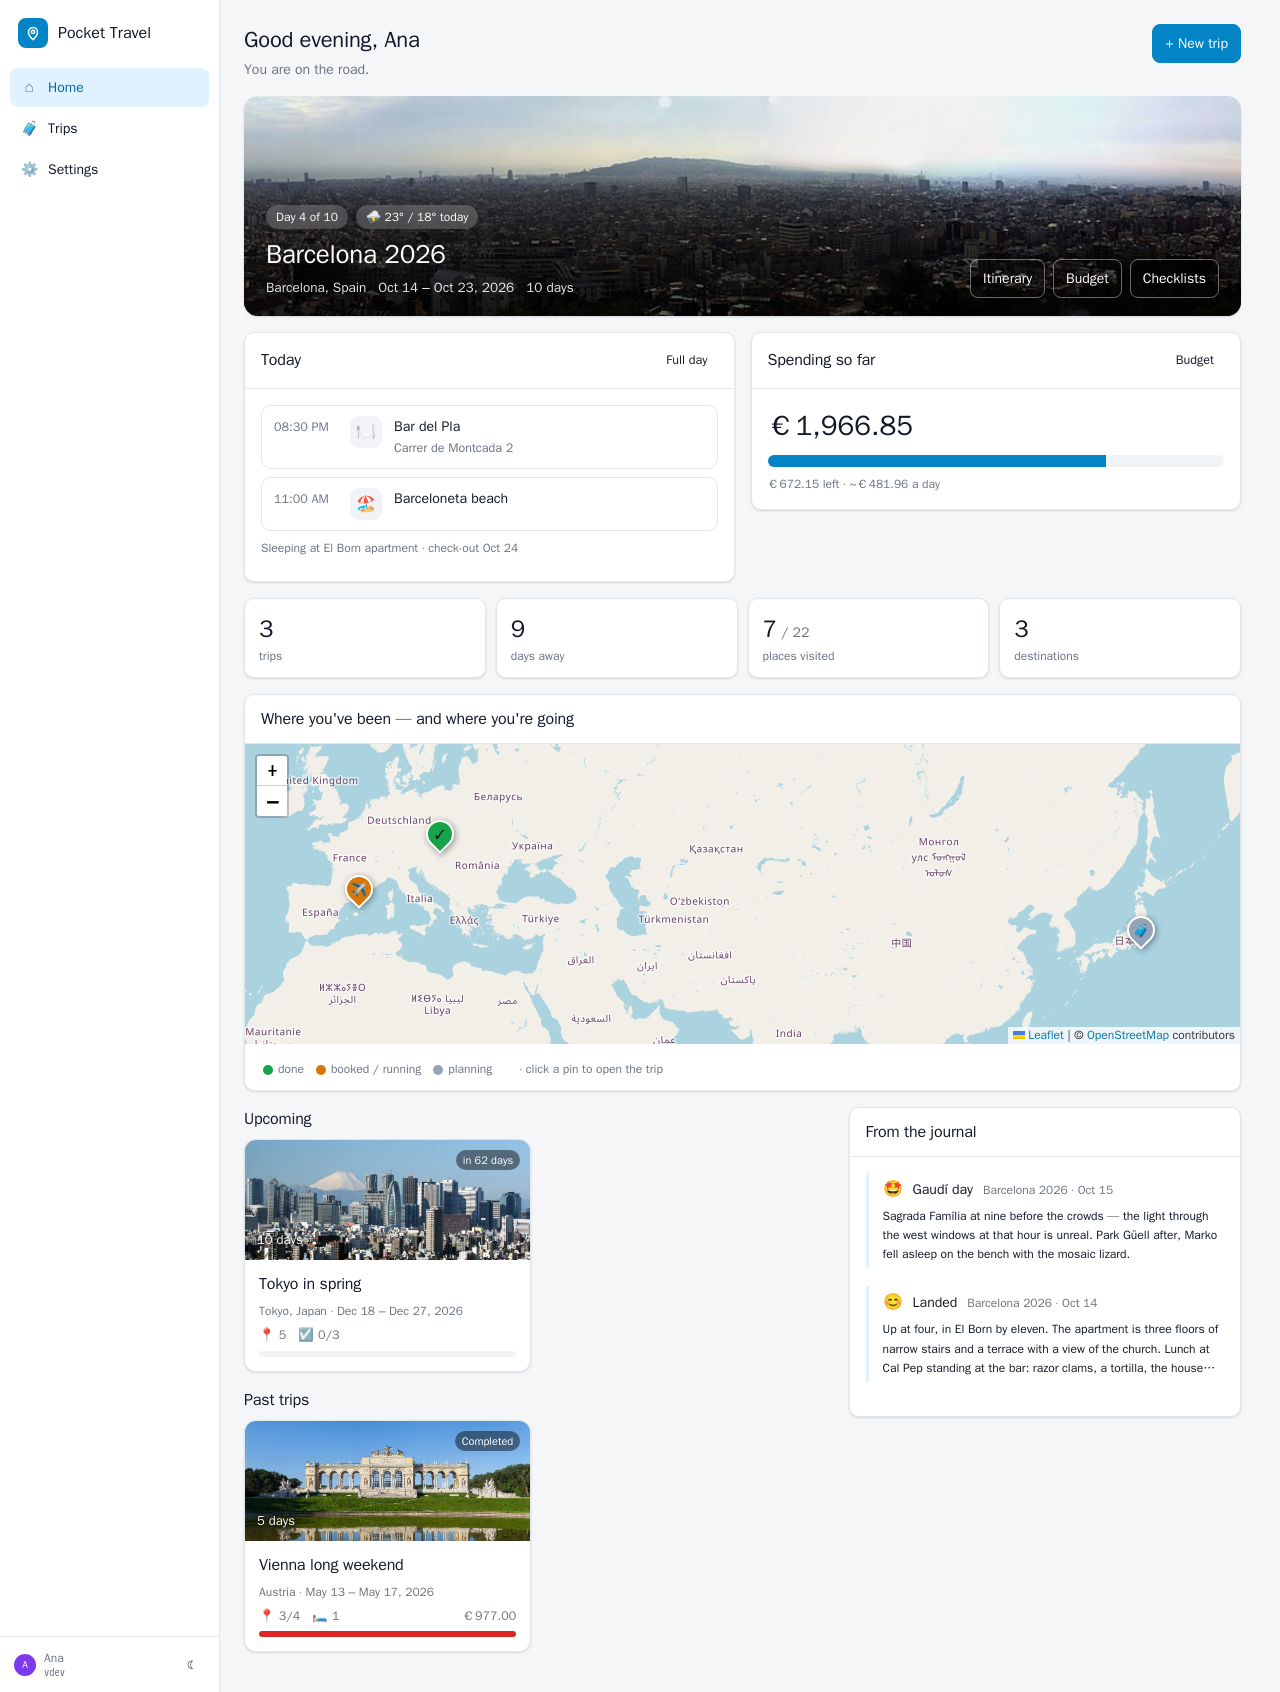
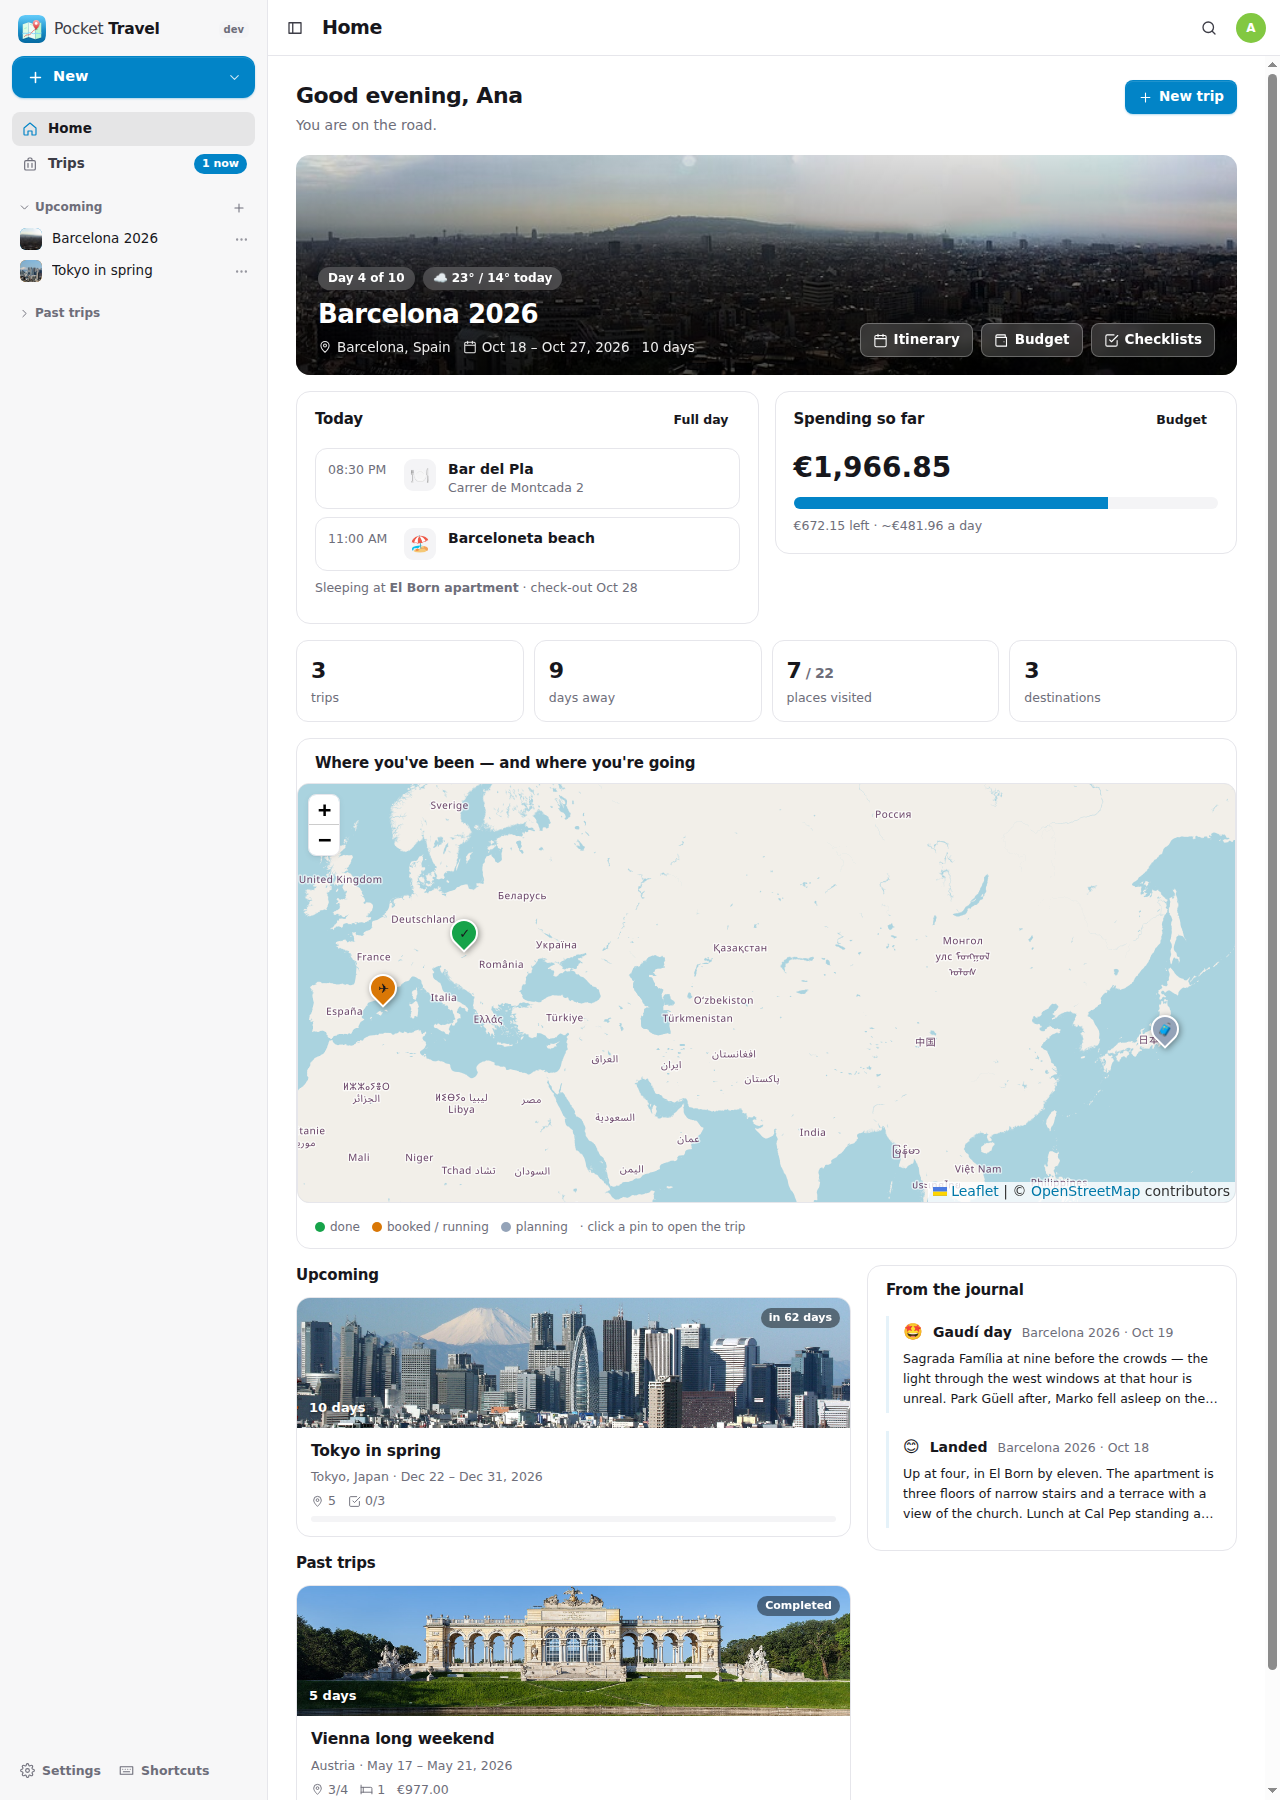
README: screenshots in the new design; phone caption

diff --git a/docs/configuration.md b/docs/configuration.md
@@ -49,6 +49,6 @@ Everything is an environment variable with a sensible default. Data is per perso
 
 - **OpenAI** — platform.openai.com → API keys. Nothing runs automatically: trip details (destination, dates, places, journal, spending totals) are sent only when you press one of the ✨ buttons. Suggested places are geocoded with Nominatim (one request a second, so a batch of 8 takes ~10 s). The planner only proposes; the itinerary changes when you apply. Set `OPENAI_BASE_URL` to use a local model server instead.
 
-- **Photos for places** — when a place is created (by hand, from a suggestion or from Discover) the server looks for up to four pictures: the English Wikipedia article's images if the article is about that place, then photos geotagged within a few hundred metres on Wikimedia Commons. Credit, licence and source link are stored and shown. Switch it off under Settings → General (“Find photos for new places automatically”); the per-place and per-trip buttons still work.
+- **Photos for places** — when a place is created (by hand, from a suggestion or from Discover) the server looks for up to four pictures: the English Wikipedia article's images if the article is about that place, then photos geotagged within a few hundred metres on Wikimedia Commons. Credit, licence and source link are stored and shown. Switch it off under Settings → General (“Find photos for new places”); the per-place and per-trip buttons still work.
 
 Inside Docker, reach services on the same host with `http://host.docker.internal:<port>` (the compose file adds the `host-gateway` alias). Services that force HTTPS redirects are fine too — the Dawarich client sends `X-Forwarded-Proto: https`.

diff --git a/README.md b/README.md
@@ -47,7 +47,7 @@ With an OpenAI key (or any compatible endpoint) five more buttons appear: **sugg
 <p align="center">
   <img src="docs/screenshots/mobile.png" width="260" alt="The itinerary on a phone">&nbsp;&nbsp;
   <img src="docs/screenshots/overview-dark.png" width="520" alt="The overview in dark mode"><br>
-  <sub>Installable PWA with a bottom tab bar, plus dark mode.</sub>
+  <sub>Installable PWA: on a phone the sidebar becomes a drawer and a + button adds a place, a cost or a journal entry; dark mode follows the system.</sub>
 </p>
 
 <p align="center"><img src="docs/screenshots/trips.png" width="900" alt="The trips page: one card per trip with the cover photo, dates, counts and the budget bar"></p>
